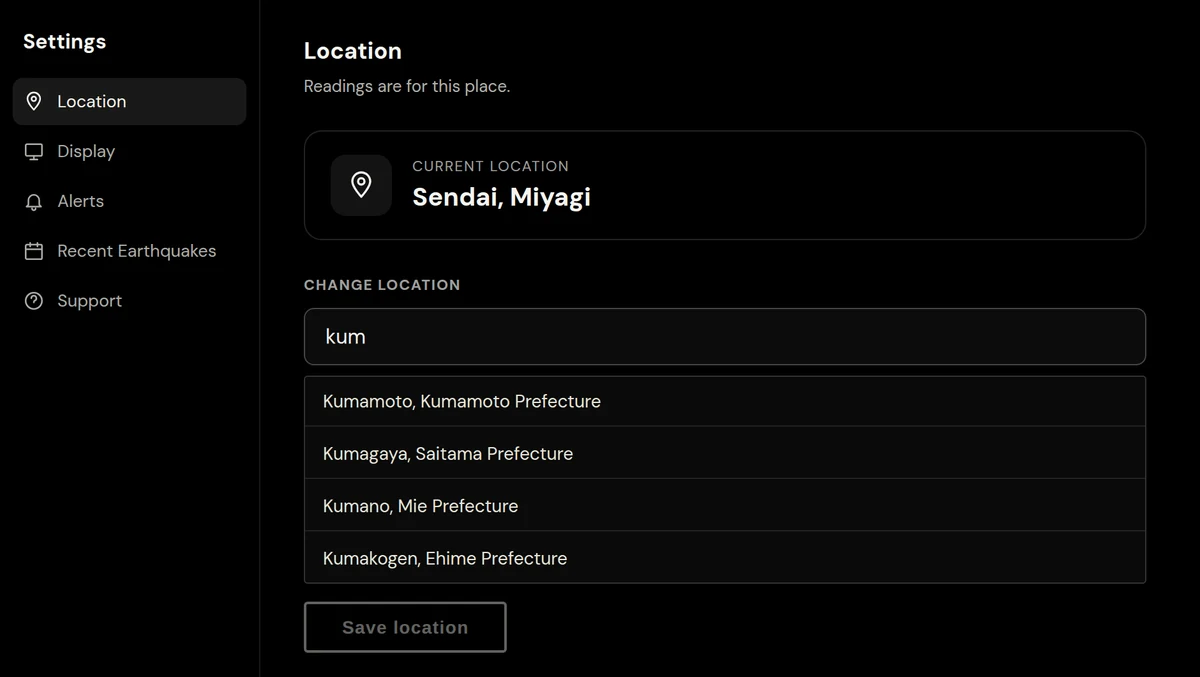
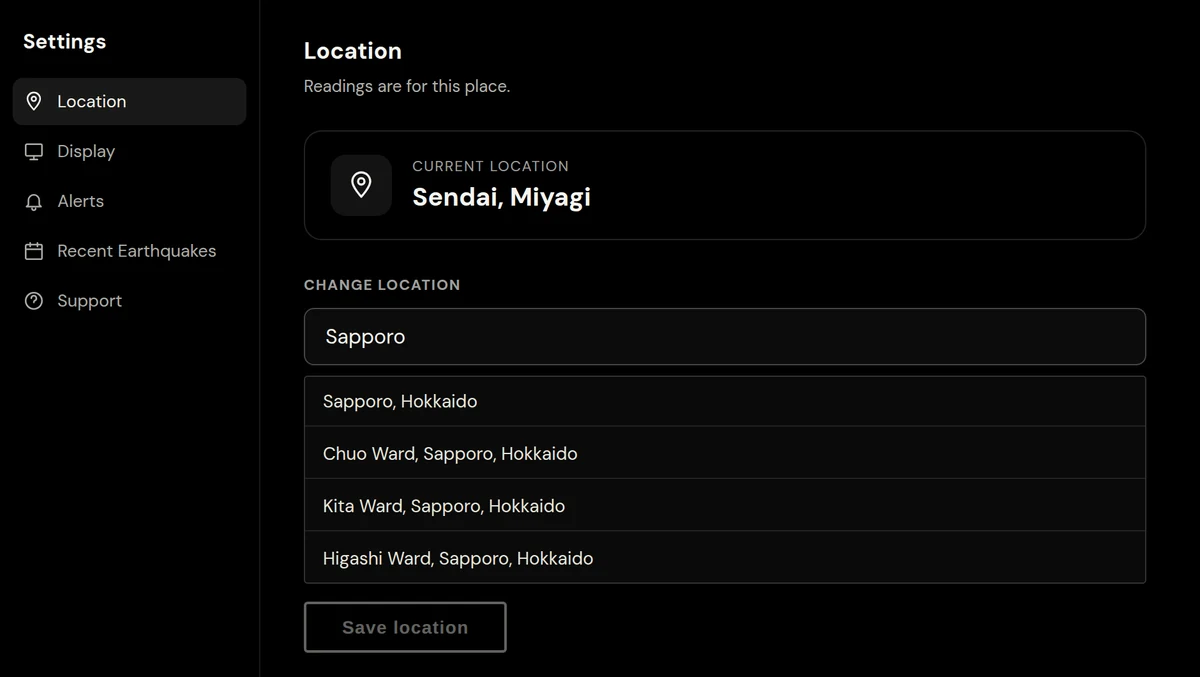
Redesign website for v0.4.0

diff --git a/docs/index.html b/docs/index.html
@@ -168,20 +168,6 @@
   .scale-desc { margin-top: auto; padding-top: 14px; font-size: 13.5px; font-weight: 600; line-height: 1.6; word-break: auto-phrase; }
   .scale-note { margin: 18px 0 0; font-size: 13px; line-height: 1.7; color: var(--dim); }
 
-  /* recent quakes */
-  .quake-list { list-style: none; margin: 40px 0 0; padding: 4px 28px; max-width: 880px; background: var(--surface); border: 1px solid var(--line); border-radius: var(--r); }
-  .quake-row { display: grid; grid-template-columns: 56px minmax(0, 1fr) auto; align-items: center; gap: 20px; padding: 16px 0; border-bottom: 1px solid var(--line); }
-  .quake-row:last-child { border-bottom: none; }
-  .quake-chip { width: 56px; height: 50px; border-radius: 10px; display: flex; align-items: center; justify-content: center; font-family: 'Barlow', 'Archivo', sans-serif; font-size: 27px; font-weight: 700; line-height: 1; }
-  .quake-chip.is-zero, .quake-chip.is-none { border: 1px solid var(--line-2); }
-  .quake-chip.is-none { font-size: 22px; color: var(--dim); }
-  .quake-place { font-size: 18px; font-weight: 700; line-height: 1.35; word-break: auto-phrase; }
-  .quake-meta { margin-top: 3px; font-size: 14px; font-weight: 500; color: var(--muted); }
-  .quake-time { text-align: right; font-size: 14px; font-weight: 700; color: var(--soft); white-space: nowrap; }
-  .quake-time small { display: block; margin-top: 3px; font-size: 12.5px; font-weight: 500; color: var(--dim); }
-  .quake-empty { padding: 22px 0; font-size: 16px; color: var(--muted); }
-  .quake-note { margin: 14px 0 0; font-size: 13px; line-height: 1.7; color: var(--dim); }
-
   /* faq */
   .faq-list { margin-top: 40px; max-width: 820px; }
   .faq-list details { background: var(--surface); border: 1px solid var(--line); border-radius: 14px; margin-bottom: 10px; transition: border-color 150ms ease; }
@@ -231,17 +217,11 @@
     .step-copy h3 { font-size: 24px; }
     .scale-grid { grid-template-columns: repeat(2, minmax(0, 1fr)); gap: 10px; }
     .scale-tile { min-height: 140px; }
-    .quake-list { padding: 2px 18px; }
     .closing-block { padding: 88px 22px 80px; }
     .closing-text { font-size: 28px; }
     .footer-row { flex-direction: column; align-items: flex-start; }
   }
   @media (max-width: 600px) {
-    .quake-row { grid-template-columns: 48px minmax(0, 1fr); gap: 14px; }
-    .quake-chip { width: 48px; height: 46px; font-size: 24px; }
-    .quake-place { font-size: 16.5px; }
-    .quake-time { grid-column: 2; text-align: left; margin-top: -6px; }
-    .quake-time small { display: inline; margin: 0 0 0 8px; }
     .faq-list summary { font-size: 16px; padding: 18px 48px 18px 18px; }
     .faq-a { padding: 0 18px 20px; }
     .shot-pair { grid-template-columns: 1fr; }
@@ -339,7 +319,7 @@
 
     
     <div class="hero2-benefits">
-      <div class="benefit"><svg class="benefit-icon" viewBox="0 0 40 40" aria-hidden="true"><circle cx="20" cy="20" r="14" fill="none" stroke="#f5f5f0" stroke-width="2.2"/><circle cx="20" cy="20" r="4" fill="#f5f5f0"/><path d="M20 2v8M20 30v8M2 20h8M30 20h8" stroke="#f5f5f0" stroke-width="2.2" stroke-linecap="round"/></svg><div><div class="benefit-title" data-t="b1Title"></div><div class="benefit-body" data-t="b1Body"></div></div></div>
+      <div class="benefit"><svg class="benefit-icon" viewBox="0 0 40 40" aria-hidden="true" fill="none" stroke="#f5f5f0" stroke-width="2.2" stroke-linecap="round" stroke-linejoin="round"><path d="M5 19L20 6l15 13"/><path d="M9 16v18h22V16"/><path d="M16 34V24h8v10"/></svg><div><div class="benefit-title" data-t="b1Title"></div><div class="benefit-body" data-t="b1Body"></div></div></div>
       <div class="benefit"><svg class="benefit-icon" viewBox="0 0 40 40" aria-hidden="true" fill="none" stroke="#f5f5f0" stroke-width="2.2" stroke-linecap="round" stroke-linejoin="round"><path d="M10 28V18a10 10 0 0 1 20 0v10l3 3H7z"/><path d="M16 35a4 4 0 0 0 8 0"/></svg><div><div class="benefit-title" data-t="b2Title"></div><div class="benefit-body" data-t="b2Body"></div></div></div>
       <div class="benefit"><svg class="benefit-icon" viewBox="0 0 40 40" aria-hidden="true"><circle cx="20" cy="20" r="15" fill="none" stroke="#f5f5f0" stroke-width="2.2"/><text x="20" y="26.5" text-anchor="middle" font-size="16" font-weight="900" fill="#f5f5f0" font-family="Archivo, sans-serif">¥0</text></svg><div><div class="benefit-title" data-t="b3Title"></div><div class="benefit-body" data-t="b3Body"></div></div></div>
     </div>
@@ -441,18 +421,6 @@
     </div>
     
     <p class="scale-note"><span class="l-ja">色はアプリの表示と同じです。説明は<a href="https://www.jma.go.jp/jma/kishou/know/shindo/kaisetsu.html">気象庁震度階級関連解説表</a>の「人の体感・行動」を要約したものです。</span><span class="l-en">Colors match the app. Descriptions summarize "human sensation and behavior" from <a href="https://www.jma.go.jp/jma/kishou/know/shindo/kaisetsu.html">JMA's Shindo scale explanation table</a> (Japanese).</span></p>
-  </section>
-
-  <section class="block inner" id="recent">
-    <div class="block-head">
-      <div class="kicker"><span class="l-ja">最近の地震</span><span class="l-en">Recent earthquakes</span></div>
-      <h2><span class="l-ja">気象庁が発表した最新の地震。</span><span class="l-en">The latest earthquakes JMA has reported.</span></h2>
-      <p class="block-sub"><span class="l-ja">色の付いた数字は、その地震で観測された最大震度です。あなたの地点での震度ではありません。</span><span class="l-en">The colored number is the strongest Shindo recorded anywhere for that quake, not the reading at your location.</span></p>
-    </div>
-    <ol class="quake-list" id="quakeList" aria-live="polite">
-      <li class="quake-empty"><span class="l-ja">読み込み中…</span><span class="l-en">Loading…</span></li>
-    </ol>
-    <p class="quake-note" id="quakeNote"></p>
   </section>
 
   <section class="block inner" id="faq">
@@ -749,139 +717,12 @@
     });
   });
 
-  var initial = 'ja';
+  var initial = (navigator.language || 'en').toLowerCase().indexOf('ja') === 0 ? 'ja' : 'en';
   try {
     var saved = localStorage.getItem('shindo-lang');
     if (saved === 'ja' || saved === 'en') initial = saved;
   } catch (e) {}
   applyLang(initial);
-})();
-</script>
-
-<script>
-/* Recent earthquakes: reads JMA's list live from Wolfx, falls back to the
-   site's own log (data/events.json) if Wolfx can't be reached. */
-(function () {
-  var list = document.getElementById('quakeList');
-  var note = document.getElementById('quakeNote');
-  if (!list) return;
-
-  var LIVE_URL = 'https://api.wolfx.jp/jma_eqlist.json';
-  var LOG_URL = 'data/events.json';
-  var NAMES_URL = 'data/region-names-en.json';
-  var SHOW = 6, REFRESH_MS = 60000;
-
-  // Same colors as the app's display bands (screener_app.html BANDS).
-  var BANDS = {
-    '0': ['#000000', '#f5f5f0'], '1': ['#e8e6dc', '#0e0e0c'], '2': ['#e8e6dc', '#0e0e0c'],
-    '3': ['#a8e6e8', '#0e0e0c'], '4': ['#a8e6e8', '#0e0e0c'], '5-': ['#e8d842', '#0e0e0c'],
-    '5+': ['#e8d842', '#0e0e0c'], '6-': ['#e08228', '#2a1c10'], '6+': ['#c21818', '#f5f0e8'],
-    '7': ['#c21818', '#f5f0e8']
-  };
-  var SHINDO_MAP = { '5弱': '5-', '5強': '5+', '6弱': '6-', '6強': '6+' };
-
-  var events = [], source = null, names = {}, fetchedAt = null;
-
-  function lang() { return document.documentElement.getAttribute('data-lang') === 'en' ? 'en' : 'ja'; }
-  function num(v) { var m = String(v == null ? '' : v).match(/-?\d+(\.\d+)?/); return m ? parseFloat(m[0]) : null; }
-  function esc(s) { return String(s).replace(/[&<>"]/g, function (c) { return { '&': '&amp;', '<': '&lt;', '>': '&gt;', '"': '&quot;' }[c]; }); }
-
-  function fromWolfx(data) {
-    var out = [];
-    Object.keys(data).forEach(function (k) {
-      if (k.indexOf('No') !== 0) return;
-      var r = data[k], t = String(r.time_full || '').replace(/\//g, '-').replace(' ', 'T');
-      if (!r.EventID || !t) return;
-      var s = String(r.shindo || '').trim(); s = SHINDO_MAP[s] || s;
-      var depth = String(r.depth || '');
-      out.push({
-        id: r.EventID, time: t + '+09:00', location_ja: (r.location || '').trim() || null,
-        depth_km: depth.indexOf('ごく浅い') >= 0 ? 0 : num(depth), magnitude: num(r.magnitude),
-        max_shindo: BANDS[s] ? s : null, report_type: r.Title || null
-      });
-    });
-    return out;
-  }
-
-  function place(e) {
-    if (!e.location_ja) return lang() === 'en' ? 'Location not yet reported' : '震源は調査中';
-    return lang() === 'en' ? (names[e.location_ja] || e.location_ja) : e.location_ja;
-  }
-
-  function timeParts(iso) {
-    var d = new Date(iso); if (isNaN(d)) return ['', ''];
-    var jst = new Date(d.getTime() + 9 * 3600e3);
-    var p = function (n) { return (n < 10 ? '0' : '') + n; };
-    var clock = (jst.getUTCMonth() + 1) + '/' + jst.getUTCDate() + ' ' + p(jst.getUTCHours()) + ':' + p(jst.getUTCMinutes());
-    var mins = Math.max(0, Math.round((Date.now() - d.getTime()) / 60000)), en = lang() === 'en', rel;
-    if (mins < 1) rel = en ? 'just now' : 'たった今';
-    else if (mins < 60) rel = en ? mins + ' min ago' : mins + '分前';
-    else if (mins < 1440) { var h = Math.round(mins / 60); rel = en ? h + (h === 1 ? ' hour ago' : ' hours ago') : h + '時間前'; }
-    else { var dd = Math.round(mins / 1440); rel = en ? dd + (dd === 1 ? ' day ago' : ' days ago') : dd + '日前'; }
-    return [rel, clock + (en ? ' JST' : '')];
-  }
-
-  function row(e) {
-    var en = lang() === 'en', s = e.max_shindo, chip;
-    if (s && BANDS[s]) {
-      chip = '<div class="quake-chip' + (s === '0' ? ' is-zero' : '') + '" style="background:' + BANDS[s][0] + ';color:' + BANDS[s][1] +
-        '" aria-label="' + (en ? 'Max Shindo ' : '最大震度') + s + '">' + esc(s) + '</div>';
-    } else {
-      chip = '<div class="quake-chip is-none" aria-label="' + (en ? 'No Shindo reported in Japan' : '国内の震度なし') + '">–</div>';
-    }
-    var meta = [];
-    if (e.magnitude != null) meta.push('M' + e.magnitude.toFixed(1));
-    if (e.depth_km != null) meta.push(e.depth_km === 0 ? (en ? 'very shallow' : 'ごく浅い') : (en ? 'depth ' : '深さ') + Math.round(e.depth_km) + ' km');
-    if (!s) meta.push(en ? 'distant quake, no shaking reported in Japan' : '遠地地震（国内の揺れなし）');
-    var t = timeParts(e.time);
-    return '<li class="quake-row">' + chip +
-      '<div><div class="quake-place">' + esc(place(e)) + '</div><div class="quake-meta">' + esc(meta.join(' · ')) + '</div></div>' +
-      '<div class="quake-time">' + esc(t[0]) + '<small>' + esc(t[1]) + '</small></div></li>';
-  }
-
-  function render() {
-    var en = lang() === 'en';
-    if (!events.length) {
-      list.innerHTML = '<li class="quake-empty">' + (source === 'error'
-        ? (en ? 'Earthquake data is unavailable right now.' : '現在、地震情報を取得できません。')
-        : (en ? 'Loading…' : '読み込み中…')) + '</li>';
-      note.textContent = '';
-      return;
-    }
-    list.innerHTML = events.slice(0, SHOW).map(row).join('');
-    var src = source === 'live'
-      ? (en ? 'Live from JMA via Wolfx, refreshed every minute.' : '気象庁の情報をWolfx経由でリアルタイム表示（1分ごとに更新）。')
-      : (en ? 'Live feed unavailable; showing this site’s saved log, which can lag by a few hours.' : 'リアルタイム情報を取得できないため、保存済みの記録を表示しています（数時間遅れる場合があります）。');
-    note.textContent = src;
-  }
-
-  function getJSON(url) {
-    return fetch(url, { cache: 'no-store' }).then(function (r) { if (!r.ok) throw new Error(r.status); return r.json(); });
-  }
-
-  function load() {
-    getJSON(LIVE_URL).then(function (d) {
-      var ev = fromWolfx(d); if (!ev.length) throw new Error('empty');
-      events = ev; source = 'live';
-    }).catch(function () {
-      return getJSON(LOG_URL).then(function (d) { events = d.events || []; source = 'log'; });
-    }).catch(function () {
-      if (!events.length) source = 'error';
-    }).then(function () {
-      events.sort(function (a, b) { return a.time < b.time ? 1 : a.time > b.time ? -1 : 0; });
-      fetchedAt = Date.now();
-      render();
-    });
-  }
-
-  getJSON(NAMES_URL).then(function (n) { names = n; render(); }).catch(function () {});
-  load();
-  setInterval(function () { if (!document.hidden) load(); }, REFRESH_MS);
-  document.addEventListener('visibilitychange', function () {
-    if (!document.hidden && Date.now() - (fetchedAt || 0) > REFRESH_MS) load();
-  });
-  // Re-render when the language toggle flips <html data-lang>.
-  new MutationObserver(render).observe(document.documentElement, { attributes: true, attributeFilter: ['data-lang'] });
 })();
 </script>
 </body>

diff --git a/docs/privacy.html b/docs/privacy.html
@@ -65,7 +65,7 @@
     <p>送信した報告の削除を希望する場合は、下記の連絡先までお知らせください。</p>
 
     <h2>このウェブサイト</h2>
-    <p>このサイトはGitHub Pagesで公開しており、アクセス解析やCookieは使っていません。選んだ表示言語は、お使いのブラウザ（localStorage）にのみ保存されます。フォントをGoogle Fontsから読み込むため、GoogleにIPアドレスなどが送信されます。「最近の地震」の一覧を表示するため、お使いのブラウザがWolfxのサーバー（api.wolfx.jp）から地震情報を読み込みます。また、GitHubがサーバーの記録としてアクセス情報を保存する場合があります。</p>
+    <p>このサイトはGitHub Pagesで公開しており、アクセス解析やCookieは使っていません。選んだ表示言語は、お使いのブラウザ（localStorage）にのみ保存されます。フォントをGoogle Fontsから読み込むため、GoogleにIPアドレスなどが送信されます。また、GitHubがサーバーの記録としてアクセス情報を保存する場合があります。</p>
 
     <h2>第三者への提供</h2>
     <p>法令に基づく場合を除き、開発者が受け取った情報を第三者に販売・提供することはありません。</p>
@@ -95,7 +95,7 @@
     <p>To have a report you sent deleted, contact the developer using the details below.</p>
 
     <h2>This website</h2>
-    <p>This site is hosted on GitHub Pages and uses no analytics and no cookies. The display language you choose is saved only in your browser (localStorage). Fonts load from Google Fonts, which sends your IP address and similar details to Google. To show the Recent earthquakes list, your browser loads earthquake data from Wolfx's server (api.wolfx.jp). GitHub may also keep server logs of visits.</p>
+    <p>This site is hosted on GitHub Pages and uses no analytics and no cookies. The display language you choose is saved only in your browser (localStorage). Fonts load from Google Fonts, which sends your IP address and similar details to Google. GitHub may also keep server logs of visits.</p>
 
     <h2>Sharing with third parties</h2>
     <p>Except where required by law, the developer does not sell or share information it receives with third parties.</p>
